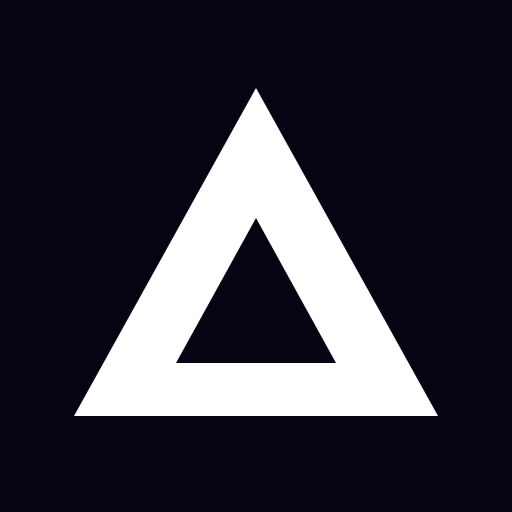
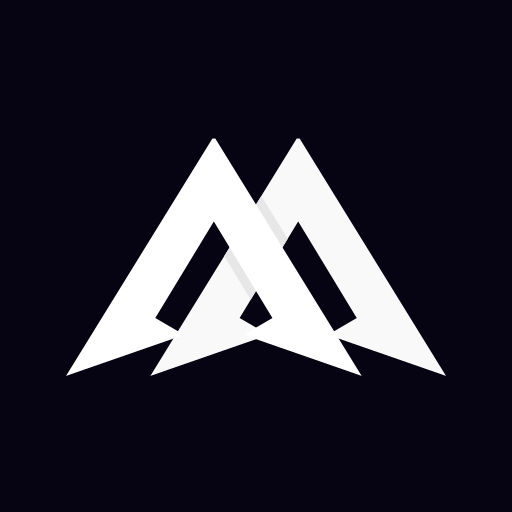
feat(ARK-198): completar la PWA (íconos, aviso de instalación y caché)
- Íconos generados con el logo de ARKAD; el ícono maskable ahora deja el
  margen de seguridad para que Android no lo recorte.
- Aviso en el inicio del jurado para instalar ARKAD (solo en celular, si no
  está instalada y si no lo ha cerrado), con enlace a la guía.
- El aviso de actualización también revisa al volver a la app instalada.
- nginx: index.html y el manifest sin caché, y el manifest con su tipo.
- Manifest sin bloqueo de orientación (los juegos pueden ir en horizontal).
- iOS: barra de estado opaca para que no tape la cabecera.

Changed region(s): [[0.125, 0.1875, 0.875, 0.8125]]

diff --git a/src/components/pwa/PwaInstallNotice.tsx b/src/components/pwa/PwaInstallNotice.tsx
@@ -1,0 +1,71 @@
+import { useState } from "react";
+import { Link } from "react-router-dom";
+import { Smartphone, X } from "lucide-react";
+import { Button } from "@/components/ui/button";
+import { isPwaInstalled } from "@/lib/pwa";
+
+// HU ARK-198: aviso para que el jurado instale ARKAD en su celular.
+// Solo aparece en pantallas táctiles, si la app no está instalada y si no lo ha cerrado antes.
+export const PWA_INSTALL_NOTICE_DISMISSED_KEY = "arkad:pwa-install-notice-dismissed";
+
+function isTouchDevice(): boolean {
+  return typeof window.matchMedia === "function"
+    && window.matchMedia("(pointer: coarse)").matches;
+}
+
+function wasDismissed(): boolean {
+  try {
+    return window.localStorage.getItem(PWA_INSTALL_NOTICE_DISMISSED_KEY) === "1";
+  } catch {
+    return false;
+  }
+}
+
+function rememberDismissed(): void {
+  try {
+    window.localStorage.setItem(PWA_INSTALL_NOTICE_DISMISSED_KEY, "1");
+  } catch {
+    // Sin almacenamiento (modo privado): el aviso solo se oculta en esta visita
+  }
+}
+
+export function PwaInstallNotice({ className = "" }: { className?: string }) {
+  const [visible, setVisible] = useState(
+    () => isTouchDevice() && !isPwaInstalled() && !wasDismissed(),
+  );
+
+  if (!visible) return null;
+
+  const dismiss = () => {
+    rememberDismissed();
+    setVisible(false);
+  };
+
+  return (
+    <div
+      role="status"
+      className={`flex items-start gap-3 rounded-lg border border-blue-500/40 bg-blue-500/10 p-4 text-sm ${className}`}
+    >
+      <Smartphone className="mt-0.5 size-4 shrink-0" aria-hidden="true" />
+      <div className="min-w-0 flex-1">
+        <p className="font-medium">Instala ARKAD en tu celular</p>
+        <p className="mt-1 text-muted-foreground">
+          Ábrela desde tu pantalla de inicio y califica sin buscar la pestaña del navegador.
+        </p>
+        <Link to="/instalar-app" className="mt-2 inline-block font-medium underline underline-offset-4">
+          Ver cómo instalarla
+        </Link>
+      </div>
+      <Button
+        type="button"
+        variant="ghost"
+        size="icon"
+        className="size-8 shrink-0"
+        aria-label="Cerrar aviso de instalación"
+        onClick={dismiss}
+      >
+        <X className="size-4" />
+      </Button>
+    </div>
+  );
+}

diff --git a/src/components/pwa/PwaInstallNotice.test.tsx b/src/components/pwa/PwaInstallNotice.test.tsx
@@ -1,0 +1,66 @@
+import { cleanup, fireEvent, render, screen } from "@testing-library/react";
+import { MemoryRouter } from "react-router-dom";
+import { afterEach, beforeEach, describe, expect, it, vi } from "vitest";
+import {
+  PWA_INSTALL_NOTICE_DISMISSED_KEY,
+  PwaInstallNotice,
+} from "@/components/pwa/PwaInstallNotice";
+
+const stubMedia = ({ touch, standalone }: { touch: boolean; standalone: boolean }) => {
+  vi.stubGlobal("matchMedia", (query: string) => ({
+    matches: query === "(pointer: coarse)" ? touch : query === "(display-mode: standalone)" ? standalone : false,
+    media: query,
+    addEventListener: vi.fn(),
+    removeEventListener: vi.fn(),
+  }));
+};
+
+const renderNotice = () =>
+  render(
+    <MemoryRouter>
+      <PwaInstallNotice />
+    </MemoryRouter>,
+  );
+
+describe("PwaInstallNotice", () => {
+  beforeEach(() => window.localStorage.clear());
+  afterEach(() => {
+    cleanup();
+    vi.unstubAllGlobals();
+  });
+
+  it("invita a instalar ARKAD en el celular y enlaza la guía", () => {
+    stubMedia({ touch: true, standalone: false });
+    renderNotice();
+
+    expect(screen.getByText("Instala ARKAD en tu celular")).toBeTruthy();
+    expect(screen.getByRole("link", { name: "Ver cómo instalarla" }).getAttribute("href")).toBe("/instalar-app");
+  });
+
+  it("no aparece si ARKAD ya está instalada", () => {
+    stubMedia({ touch: true, standalone: true });
+    renderNotice();
+
+    expect(screen.queryByText("Instala ARKAD en tu celular")).toBeNull();
+  });
+
+  it("no aparece en computador", () => {
+    stubMedia({ touch: false, standalone: false });
+    renderNotice();
+
+    expect(screen.queryByText("Instala ARKAD en tu celular")).toBeNull();
+  });
+
+  it("al cerrarlo no vuelve a aparecer", () => {
+    stubMedia({ touch: true, standalone: false });
+    renderNotice();
+
+    fireEvent.click(screen.getByRole("button", { name: "Cerrar aviso de instalación" }));
+    expect(screen.queryByText("Instala ARKAD en tu celular")).toBeNull();
+    expect(window.localStorage.getItem(PWA_INSTALL_NOTICE_DISMISSED_KEY)).toBe("1");
+
+    cleanup();
+    renderNotice();
+    expect(screen.queryByText("Instala ARKAD en tu celular")).toBeNull();
+  });
+});

diff --git a/src/components/pwa/PwaUpdateNotice.tsx b/src/components/pwa/PwaUpdateNotice.tsx
@@ -23,6 +23,18 @@ export default function PwaUpdateNotice() {
       installingWorker?.addEventListener("statechange", checkForWaitingWorker);
     };
 
+    const checkForUpdate = () => {
+      void registration?.update().catch((error: unknown) => {
+        console.error("No se pudo comprobar si hay una actualización de ARKAD:", error);
+      });
+    };
+
+    // La app instalada casi nunca se recarga: se revisa al volver a ella y cada hora
+    const onVisibilityChange = () => {
+      if (document.visibilityState === "visible") checkForUpdate();
+    };
+    document.addEventListener("visibilitychange", onVisibilityChange);
+
     let intervalId: number | undefined;
     navigator.serviceWorker.getRegistration("/")
       .then((currentRegistration) => currentRegistration ?? navigator.serviceWorker.ready)
@@ -31,11 +43,7 @@ export default function PwaUpdateNotice() {
         registration = currentRegistration;
         checkForWaitingWorker();
         registration.addEventListener("updatefound", watchInstallingWorker);
-        intervalId = window.setInterval(() => {
-          void registration?.update().catch((error: unknown) => {
-            console.error("No se pudo comprobar si hay una actualización de ARKAD:", error);
-          });
-        }, 60 * 60 * 1000);
+        intervalId = window.setInterval(checkForUpdate, 60 * 60 * 1000);
       })
       .catch((error: unknown) => {
         console.error("No se pudo consultar la actualización de ARKAD:", error);
@@ -43,6 +51,7 @@ export default function PwaUpdateNotice() {
 
     return () => {
       active = false;
+      document.removeEventListener("visibilitychange", onVisibilityChange);
       if (intervalId !== undefined) window.clearInterval(intervalId);
       registration?.removeEventListener("updatefound", watchInstallingWorker);
       installingWorker?.removeEventListener("statechange", checkForWaitingWorker);

diff --git a/src/pages/grupo 9/HomePage.tsx b/src/pages/grupo 9/HomePage.tsx
@@ -9,6 +9,7 @@ import VerificationCode from "@/components/grupo 5/VerificationCode";
 import CircularProgress from "@/components/CircularProgress";
 import { JurorPresenceNotice } from "@/components/juror-presence/JurorPresenceNotice";
 import { JurorSurveyAccess } from "@/components/juror-survey/JurorSurveyAccess";
+import { PwaInstallNotice } from "@/components/pwa/PwaInstallNotice";
 import { Navigate } from "react-router-dom";
 
 const HomePage: React.FC = () => {
@@ -46,6 +47,10 @@ const HomePage: React.FC = () => {
               Estamos encantados de tenerte, {user?.firstName}
             </p>
             <JurorPresenceNotice className="mx-auto max-w-[700px] text-left" />
+            {/* ARK-198: invitar al jurado a instalar ARKAD en el celular */}
+            {userRole === "Jurado" && (
+              <PwaInstallNotice className="mx-auto w-full max-w-[700px] text-left" />
+            )}
             {/* HU-17: acceso a la encuesta mientras el jurado no la haya respondido */}
             {(userRole === "Jurado" || userRole === "Profesor") && (
               <JurorSurveyAccess className="mx-auto w-full max-w-[700px] text-left" />

diff --git a/index.html b/index.html
@@ -18,8 +18,9 @@
     />
     <meta name="viewport" content="width=device-width, initial-scale=1.0" />
     <meta name="theme-color" content="#060312" />
+    <meta name="mobile-web-app-capable" content="yes" />
     <meta name="apple-mobile-web-app-capable" content="yes" />
-    <meta name="apple-mobile-web-app-status-bar-style" content="black-translucent" />
+    <meta name="apple-mobile-web-app-status-bar-style" content="black" />
     <meta name="apple-mobile-web-app-title" content="ARKAD" />
     <meta
       name="description"
